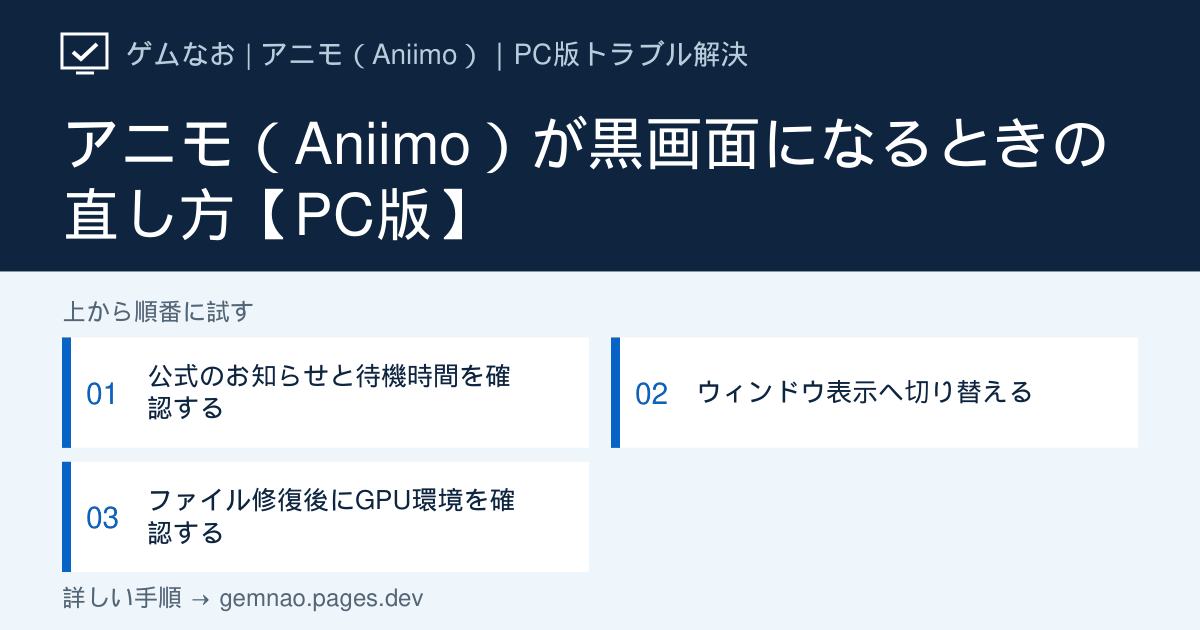
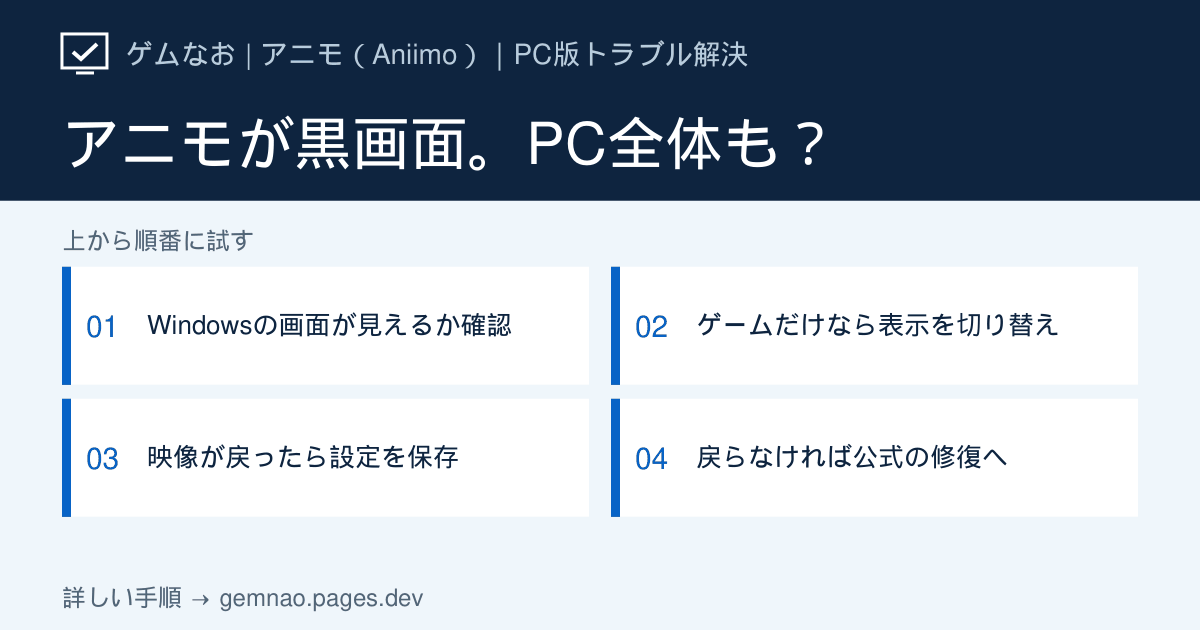
Rewrite Aniimo black screen guide with Windows display diagnosis

diff --git a/lib/aniimo-articles.ts b/lib/aniimo-articles.ts
@@ -34,6 +34,14 @@ const aniimoRelease = {
   label: 'Aniimo公式：正式リリースと日本語サポート窓口',
   url: 'https://aniimo.com/newslist/detail/100117',
 };
+const windowsBlankScreen = {
+  label: 'Microsoft公式：Windowsの空白・黒い画面のトラブルシューティング',
+  url: 'https://support.microsoft.com/ja-jp/windows/hardware/display-graphics/troubleshooting-blank-screens-in-windows',
+};
+const windowsDisplaySettings = {
+  label: 'Microsoft公式：Windowsの解像度と画面のレイアウト',
+  url: 'https://support.microsoft.com/ja-jp/windows/hardware/display-graphics/change-your-screen-resolution-and-layout-in-windows',
+};
 const related = [
   'not-launching',
   'black-screen',
@@ -259,78 +267,198 @@ export const aniimoArticles: GameArticle[] = [
     gameSlug: 'aniimo',
     slug: 'black-screen',
     category: 'settings',
-    title: 'アニモ（Aniimo）が黒画面になるときの直し方【PC版】',
-    shortTitle: '黒画面',
+    title:
+      'アニモ（Aniimo）が黒画面になるときの直し方｜PC全体が映らない場合も解説',
+    shortTitle: '黒画面・画面が映らない',
     symptom:
-      '起動後に映像が出ない、ロゴの後で黒い画面のまま進まない場合の確認手順です。',
+      'ゲームのウィンドウだけ真っ暗なのか、Windowsのデスクトップも映らないのかで初動が変わります。まずAlt＋TabやCtrl＋Alt＋DeleteでWindowsの画面が見えるか確認してください。',
     conclusion:
-      '音が出ているかを確認し、ウィンドウ表示へ切り替え、ファイル修復とGPUドライバー更新を順番に試します。',
+      'Windowsが見えるならゲーム側の表示切り替えを試し、映像が戻れば画面設定を保存。戻らなければAniimoの修復へ。PC画面全体が黒いなら、モニターの電源・入力先・接続を確かめてからWindowsの表示を復旧します。',
     description:
-      '黒画面は、サービス側の問題、表示モード、描画ドライバー、破損ファイルで対処が異なります。Aniimo公式が黒画面を既知問題として掲載しているとは限らないため、症状を分けて確認します。',
-    checkedAt,
+      '音が聞こえていても、ゲーム映像だけの問題かWindows全体の表示問題かは判定できません。デスクトップやセキュリティ画面が見えるかを先に確かめ、見えない場合はゲームのファイル操作へ進まないでください。',
+    checkedAt: '2026-09-27',
     status: 'verified',
-    targetVersion,
+    targetVersion: 'Windows PC版（公式ランチャー・Steam）／2026年9月27日確認',
+    quickFacts: [
+      {
+        label: '最初に試すキー',
+        value: 'Alt＋Tab、次にCtrl＋Alt＋Delete。Windowsの画面が見えるかを判定',
+      },
+      {
+        label: 'ゲーム画面だけ黒い',
+        value:
+          'ゲームが選択された状態でAlt＋Enterを1回試し、結果に合わせて分岐',
+      },
+      {
+        label: 'PCの画面全体が黒い',
+        value: 'モニター電源・入力・ケーブル→Windows＋Ctrl＋Shift＋Bの順',
+      },
+      {
+        label: 'Aniimo公式の修復',
+        value: '公式ランチャー右上の「設定」→「ワンクリック修復」',
+      },
+    ],
     causes: [
-      'メンテナンスやランチャー更新が完了していない',
-      'フルスクリーンの解像度・表示モードが合っていない',
-      'ゲームファイルの不足または破損',
-      'GPUドライバーや描画オーバーレイとの競合',
+      'Aniimoの画面モード・解像度とディスプレイ設定の組み合わせ',
+      '更新後のゲームファイルの不整合（Aniimo公式FAQが修復を案内）',
+      'モニターの入力先・接続、Windowsの表示先やグラフィックスの問題',
     ],
     symptoms: [
-      { label: 'ロゴの後で黒画面', target: 'window-mode' },
-      { label: '音は出るが映像がない', target: 'window-mode' },
-      { label: '黒画面のまま応答しない', target: 'repair-black-screen' },
+      { label: 'まずWindowsを操作できるか確認', target: 'split-black-screen' },
+      { label: 'ゲームだけ黒い・音は出る', target: 'window-mode' },
+      { label: 'PCの画面全体が映らない', target: 'desktop-blank' },
+      { label: 'Alt＋Enterで映像が戻った', target: 'after-display-toggle' },
+      { label: '切り替えてもゲームが真っ黒', target: 'repair-black-screen' },
+      { label: '修復後も同じ黒画面', target: 'after-repair-black-screen' },
+    ],
+    diagnosis: [
+      {
+        symptom: 'Aniimoだけ黒く、Alt＋Tabでデスクトップが見える',
+        cause: 'ゲームの表示モード・描画かファイルを確認',
+        stepId: 'window-mode',
+      },
+      {
+        symptom: '音は出るがAniimoの映像だけ見えない',
+        cause: '音の有無では断定せず、Windowsが見えれば画面切り替えを試す',
+        stepId: 'window-mode',
+      },
+      {
+        symptom: 'Alt＋Enter後に映像が戻った',
+        cause: '切り替えた表示モード・解像度で再起動しても戻るか確認',
+        stepId: 'after-display-toggle',
+      },
+      {
+        symptom: 'Alt＋Enterで変化なし／一瞬映ってまた黒い',
+        cause: 'ゲームを終了し、配布元に合う修復を実行',
+        stepId: 'repair-black-screen',
+      },
+      {
+        symptom: 'デスクトップも見えず、Ctrl＋Alt＋Deleteも表示されない',
+        cause: 'ゲーム設定よりモニター・Windowsの画面出力を先に確認',
+        stepId: 'desktop-blank',
+      },
+      {
+        symptom: '更新後から黒く、修復しても同じ状態',
+        cause: '修復結果と起動時点を比較し、表示環境と公式窓口へ',
+        stepId: 'after-repair-black-screen',
+      },
     ],
     steps: [
       {
-        id: 'check-black-screen-status',
-        title: '公式のお知らせと待機時間を確認する',
-        summary: '配信直後の更新中と端末固有の黒画面を分けます。',
+        id: 'split-black-screen',
+        title: 'Windowsが見えるか確認して、調べる対象を決める',
+        summary: 'ゲームだけ黒いのか、PCの表示全体が消えたのかを切り分けます。',
         actions: [
-          'Aniimo公式ニュースでメンテナンスや更新情報を確認する',
-          'ディスク使用率が動いている場合は数分待つ',
-          '変化がなければゲームを終了し、Windowsを再起動する',
+          'Alt＋Tabで別のアプリかWindowsのデスクトップに切り替える。ゲーム以外が見えるなら次の「ゲームだけ黒い」へ進む',
+          '何も見えなければCtrl＋Alt＋Deleteを1回押す。セキュリティ画面が出るならWindowsは表示できているため、タスク マネージャーでAniimoが応答しているか確認する',
+          'デスクトップもセキュリティ画面も出ず、モニター全体が黒いなら「PCの画面全体が映らない」へ進む',
         ],
+        note: 'ロゴの後で黒い場合も、画面全体が真っ黒になった場合も、音だけを手がかりにゲームの修復へ進まないことが重要です。',
       },
       {
         id: 'window-mode',
-        title: 'ウィンドウ表示へ切り替える',
-        summary: 'フルスクリーンだけで映像が出ない状態かを確認します。',
+        title: 'ゲームだけ黒い場合、表示モードを1回切り替える',
+        summary:
+          'Windowsが見える場合に限り、全画面とウィンドウの表示差を調べます。',
         actions: [
-          'ゲーム画面を選択する',
-          'AltキーとEnterキーを同時に押す',
-          '映像が表示されたら、ゲーム内でモニター対応の解像度を選ぶ',
-          '一度終了し、同じ設定で再起動する',
+          'ゲーム以外のWindows画面が見えることを確認し、Alt＋TabでAniimoに戻る',
+          'Aniimoが選択された状態でAlt＋Enterを1回押し、10秒ほど待って映像が戻るか見る。ゲームがこのキーに対応しない場合もあります',
+          '映像が戻ったなら次の「映像が戻った後」へ。映像が戻らない、または一瞬だけ戻るならCtrl＋Alt＋Deleteからタスク マネージャーを開き、応答しないAniimoを終了して「ゲームを修復」へ進む',
+        ],
+        note: 'Alt＋Enterに反応しないことだけではゲームファイルの破損と判断できません。画面全体が黒い場合はこの操作を繰り返さず、Windows側の手順を先に確認します。',
+      },
+      {
+        id: 'desktop-blank',
+        title: 'PCの画面全体が映らない場合は表示を復旧する',
+        summary:
+          'デスクトップも見えない間は、ゲームファイルの修復を始められません。',
+        actions: [
+          'モニターの電源ランプと入力先（HDMI／DisplayPort）を確認し、PCとモニターのケーブルが抜けていないか確認する。ノートPCなら外部モニターをいったん外して内蔵画面を見る',
+          'Windows＋Ctrl＋Shift＋Bを1回押し、音や画面のちらつき、デスクトップが戻るか確認する',
+          'まだ真っ黒ならWindows＋Pを押し、もう一度P、Enterの順で表示先を1段階切り替えて数秒待つ。外部画面を使う場合は投影先を間違えていないか見る',
+          'Ctrl＋Alt＋Deleteで画面が戻ればタスク マネージャーでAniimoを終了し、デスクトップが見える状態にしてからゲーム側を確認する。何を押しても表示が戻らなければMicrosoftの「Windowsの空白画面」案内に進む',
+        ],
+        note: 'ディスクへの更新・保存中と分かる場合は電源の長押しを避けてください。PCが応答せず表示も戻らない場合は、Microsoftの復旧手順を確認してから再起動を判断します。',
+      },
+      {
+        id: 'after-display-toggle',
+        title: '映像が戻ったら、表示設定を保存して再発を確かめる',
+        summary:
+          'その場で一度映っただけでは解決とせず、再起動後も映るか調べます。',
+        actions: [
+          'Aniimoの画面が戻ったら、ゲームの表示設定で現在表示できている画面モードと解像度を控え、その設定で保存する',
+          'いったん通常終了し、同じモニターで再起動する。ログイン画面からゲーム内まで映れば改善と判断する',
+          '再起動時にだけ黒くなるなら、Windows「設定」→「システム」→「ディスプレイ」で利用中のモニターを選び、解像度と画面の配置を確認する',
+          '同じ設定でも再発するなら、次の修復手順で更新後のゲームファイルを確認する',
         ],
       },
       {
         id: 'repair-black-screen',
-        title: 'ファイル修復後にGPU環境を確認する',
-        summary: '破損ファイルと描画環境を順番に切り分けます。',
+        title: '切り替えてもゲームだけ黒いなら配布元の修復を実行する',
+        summary:
+          'Aniimo公式は更新後の黒画面にワンクリック修復を案内しています。',
         actions: [
-          '公式ランチャーの修復機能が表示される場合は実行する',
-          'Steam版は「ゲームファイルの整合性を確認」を実行する',
-          'GPUメーカー公式のドライバーへ更新してPCを再起動する',
-          'Discordや録画ソフトのオーバーレイを止めて再確認する',
+          'Windowsのデスクトップが表示できていることを確認し、Aniimoを終了する。公式ニュースに更新・メンテナンスがあれば状況を確かめる',
+          '公式ランチャー版はランチャー右上「設定」→「ワンクリック修復」を実行し、完了後にランチャーを再起動する',
+          'Steam版はライブラリでAniimoを右クリック→「プロパティ」→「インストール済みファイル」→「ゲームファイルの整合性を確認」を実行する',
+          '再取得されたかどうかを控え、ゲームを再び起動して、ロゴ直後からゲーム内まで映るか確認する。改善しなければ次の結果別手順へ',
+        ],
+      },
+      {
+        id: 'after-repair-black-screen',
+        title: '修復後も黒い場合は結果に合わせて次の行動を選ぶ',
+        summary: '修復結果、映る範囲、別のアプリの表示から調べる先を絞ります。',
+        actions: [
+          '再取得後にゲームが映り、再起動しても再発しなければ修復完了。再取得されても同じ時点で黒くなるなら、公式更新情報を確認し、再発時刻と修復結果を控える',
+          '修復で変化がなくAniimoだけ黒い場合は、GPUメーカー公式のドライバーを確認し、更新した場合はWindowsを再起動して比較する。Discordや録画ソフトのオーバーレイは一つずつ止めて試す',
+          'Windowsのデスクトップも再び消える場合はゲーム設定の問題と決めつけず、MicrosoftのWindows空白画面の手順で表示先・接続・ドライバーを確認する',
+          'ゲームだけ黒い症状が続くなら、公式ランチャー版かSteam版か、更新前後の変化、Alt＋Enterの結果、音の有無とエラー表示を添えて support_jp@aniimo.com へ相談する',
         ],
       },
     ],
     cautions: [
-      '黒画面中にインストール処理が続いている場合があります。ディスクアクセス中の強制終了を繰り返さないでください。',
-      '非公式の設定ファイルやDLLは導入しないでください。',
+      'ランチャーの更新中やディスクへの書き込み中と分かるときは、強制終了や電源の長押しを繰り返さないでください。',
+    ],
+    avoid: [
+      'PC画面全体が映らない状態で、当てずっぽうにゲームファイルや設定を削除しない。',
+      '非公式のDLLや修復ツール、原因の分からない設定ファイルは追加しない。',
     ],
     faqs: [
       {
-        question: 'Aniimoで音は出るのに黒画面のときは？',
+        question: 'ゲーム音が聞こえればAniimo側だけの問題ですか？',
         answer:
-          'Alt＋Enterでウィンドウ表示へ切り替え、映像が戻るか確認します。戻った場合はモニターに合う解像度へ設定してください。',
+          '音だけでは判断できません。Alt＋TabでWindowsのデスクトップが見えればゲーム側の表示を確認します。Windowsの画面も見えなければ、モニターの入力先とWindowsの表示復旧を先に試してください。',
+      },
+      {
+        question: 'Alt＋Enterで一度直ったのに、次の起動でまた黒くなります',
+        answer:
+          '映った時の画面モードと解像度をゲーム内で保存し、Windows側でも使っているモニターと解像度を確認します。ゲームだけ再発するなら更新後のファイルを修復し、その結果を控えてください。',
+      },
+      {
+        question: 'ロゴが出ず白い画面のままの場合も同じ手順ですか？',
+        answer:
+          'Aniimo公式FAQは、ロゴが出ず白い画面が続く症状について別にDirectX 11の案内を掲載しています。デスクトップが見えることを確認したうえで、公式FAQの該当項目を先に確認してください。',
       },
     ],
-    sources: [officialNews, steamStore],
+    sources: [
+      pcLaunchFaq,
+      windowsBlankScreen,
+      windowsDisplaySettings,
+      steamVerifyGuide,
+      aniimoRelease,
+    ],
     related: related.filter((slug) => slug !== 'black-screen'),
-    seoTitle: 'アニモ（Aniimo）が黒画面になるときの直し方【PC版】',
+    seoTitle:
+      'アニモ（Aniimo）が黒画面になる時の直し方｜Windows全体が映らない場合も',
     metaDescription:
-      'アニモ（Aniimo）PC版が黒画面で進まない、音だけ出る場合の対処法。ウィンドウ表示、ファイル修復、GPUドライバーを安全な順に確認します。',
+      'アニモ（Aniimo）PC版が黒画面になる時は、ゲームだけ黒いかWindows全体が映らないかを判定。Alt＋Enterで映像が戻った場合・戻らない場合の次の行動、公式ランチャーとSteamの修復方法を解説。',
+    ogTitle: 'アニモが黒画面。PC全体も？',
+    ogSteps: [
+      'Windowsの画面が見えるか確認',
+      'ゲームだけなら表示を切り替え',
+      '映像が戻ったら設定を保存',
+      '戻らなければ公式の修復へ',
+    ],
   },
   {
     gameSlug: 'aniimo',

diff --git a/lib/og-image-manifest.ts b/lib/og-image-manifest.ts
@@ -34,8 +34,8 @@ export const ogImageManifest: Record<string, string> = {
   "/discord/user-volume-low": "47ca5d40",
   "/discord/voice-client-outdated": "9940ed57",
   "/discord/voice-cutting-out": "89f41b0a",
-  "/games/aniimo": "ef4834c4",
-  "/games/aniimo/black-screen": "a14b8ac4",
+  "/games/aniimo": "30fe6a2d",
+  "/games/aniimo/black-screen": "d4ce40f0",
   "/games/aniimo/launcher-display": "950a3a59",
   "/games/aniimo/login-error": "c5c34110",
   "/games/aniimo/not-launching": "0cedb67a",
